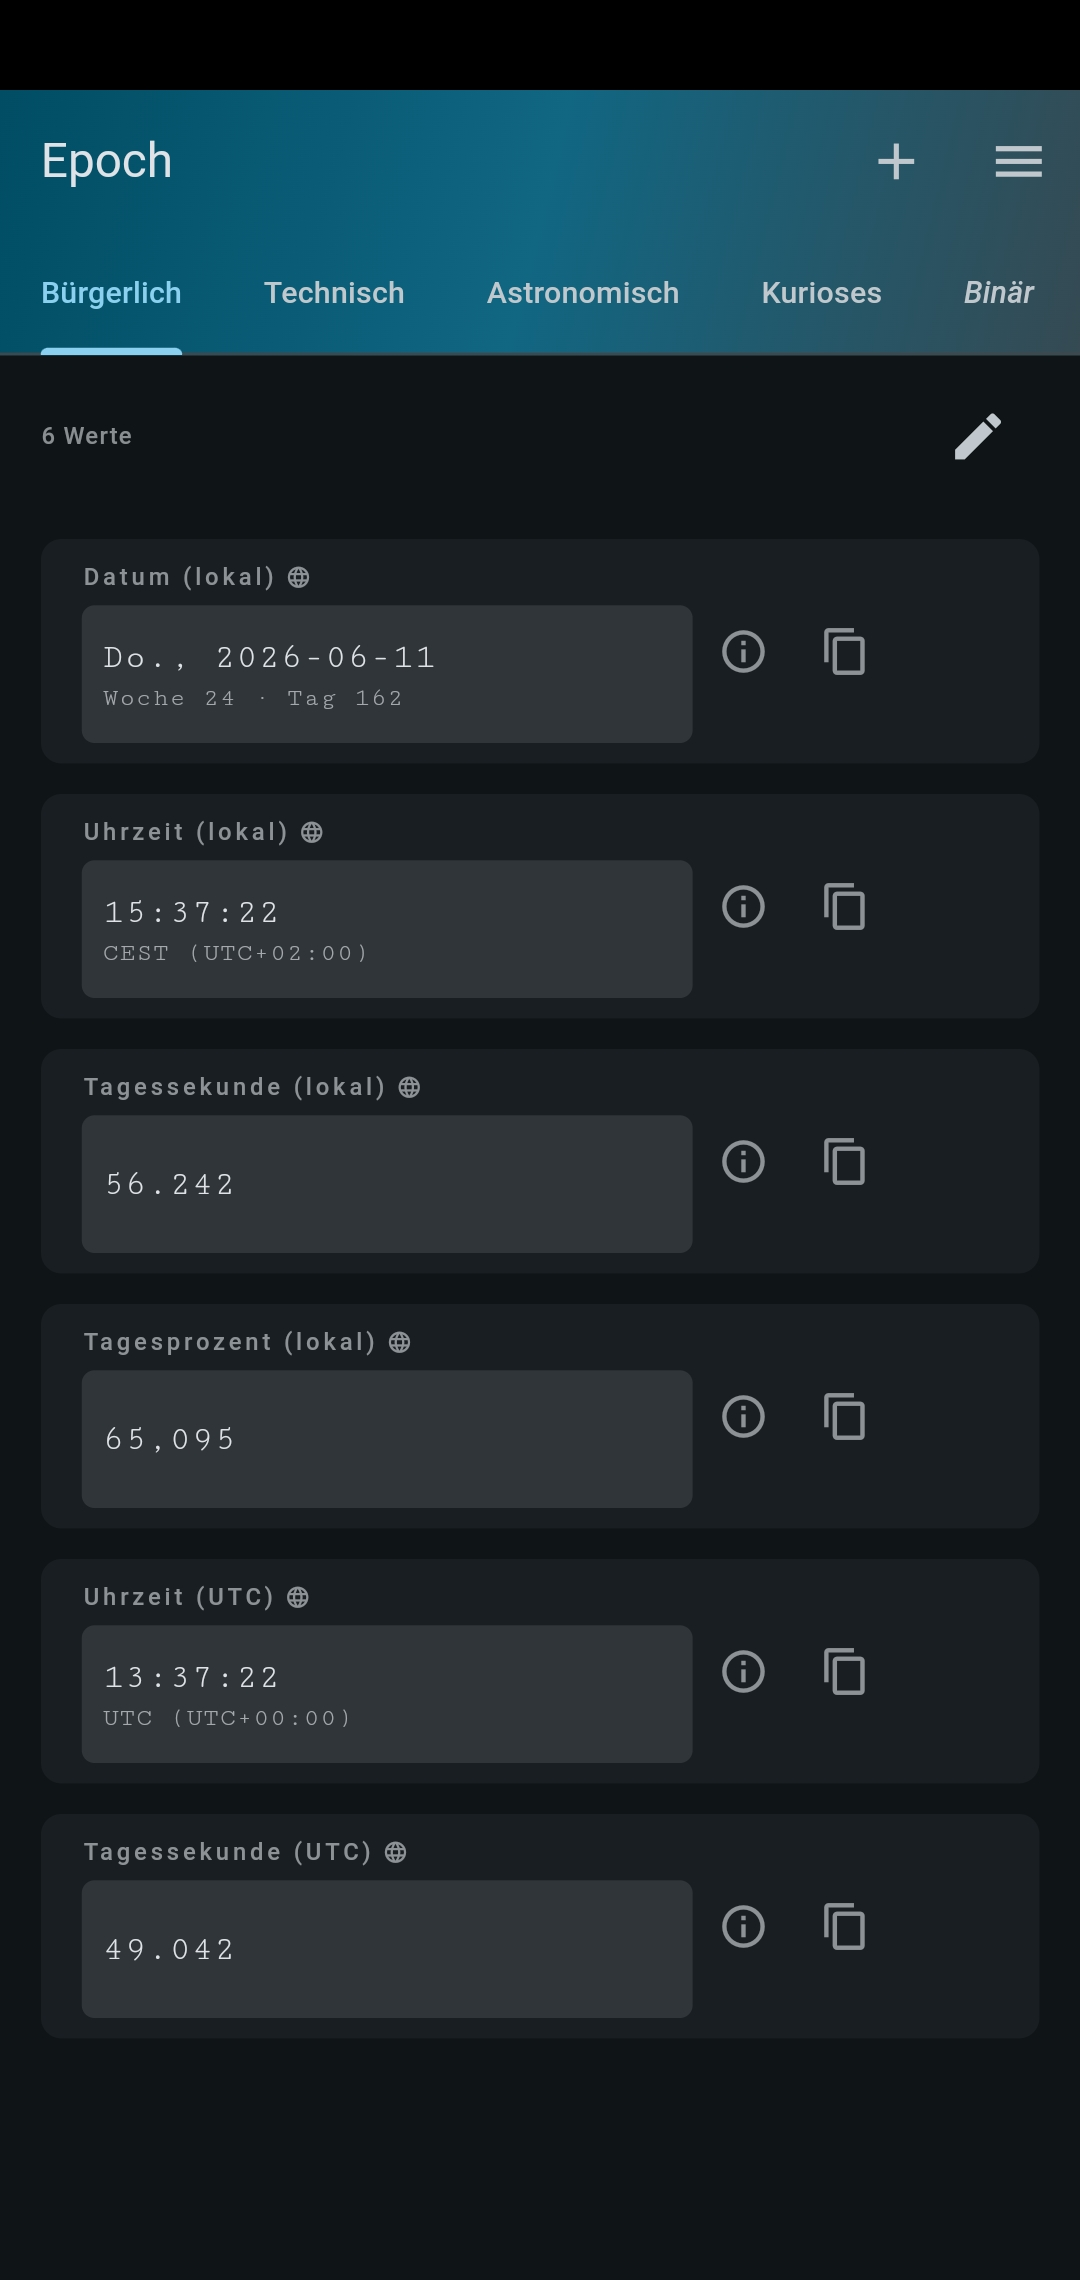
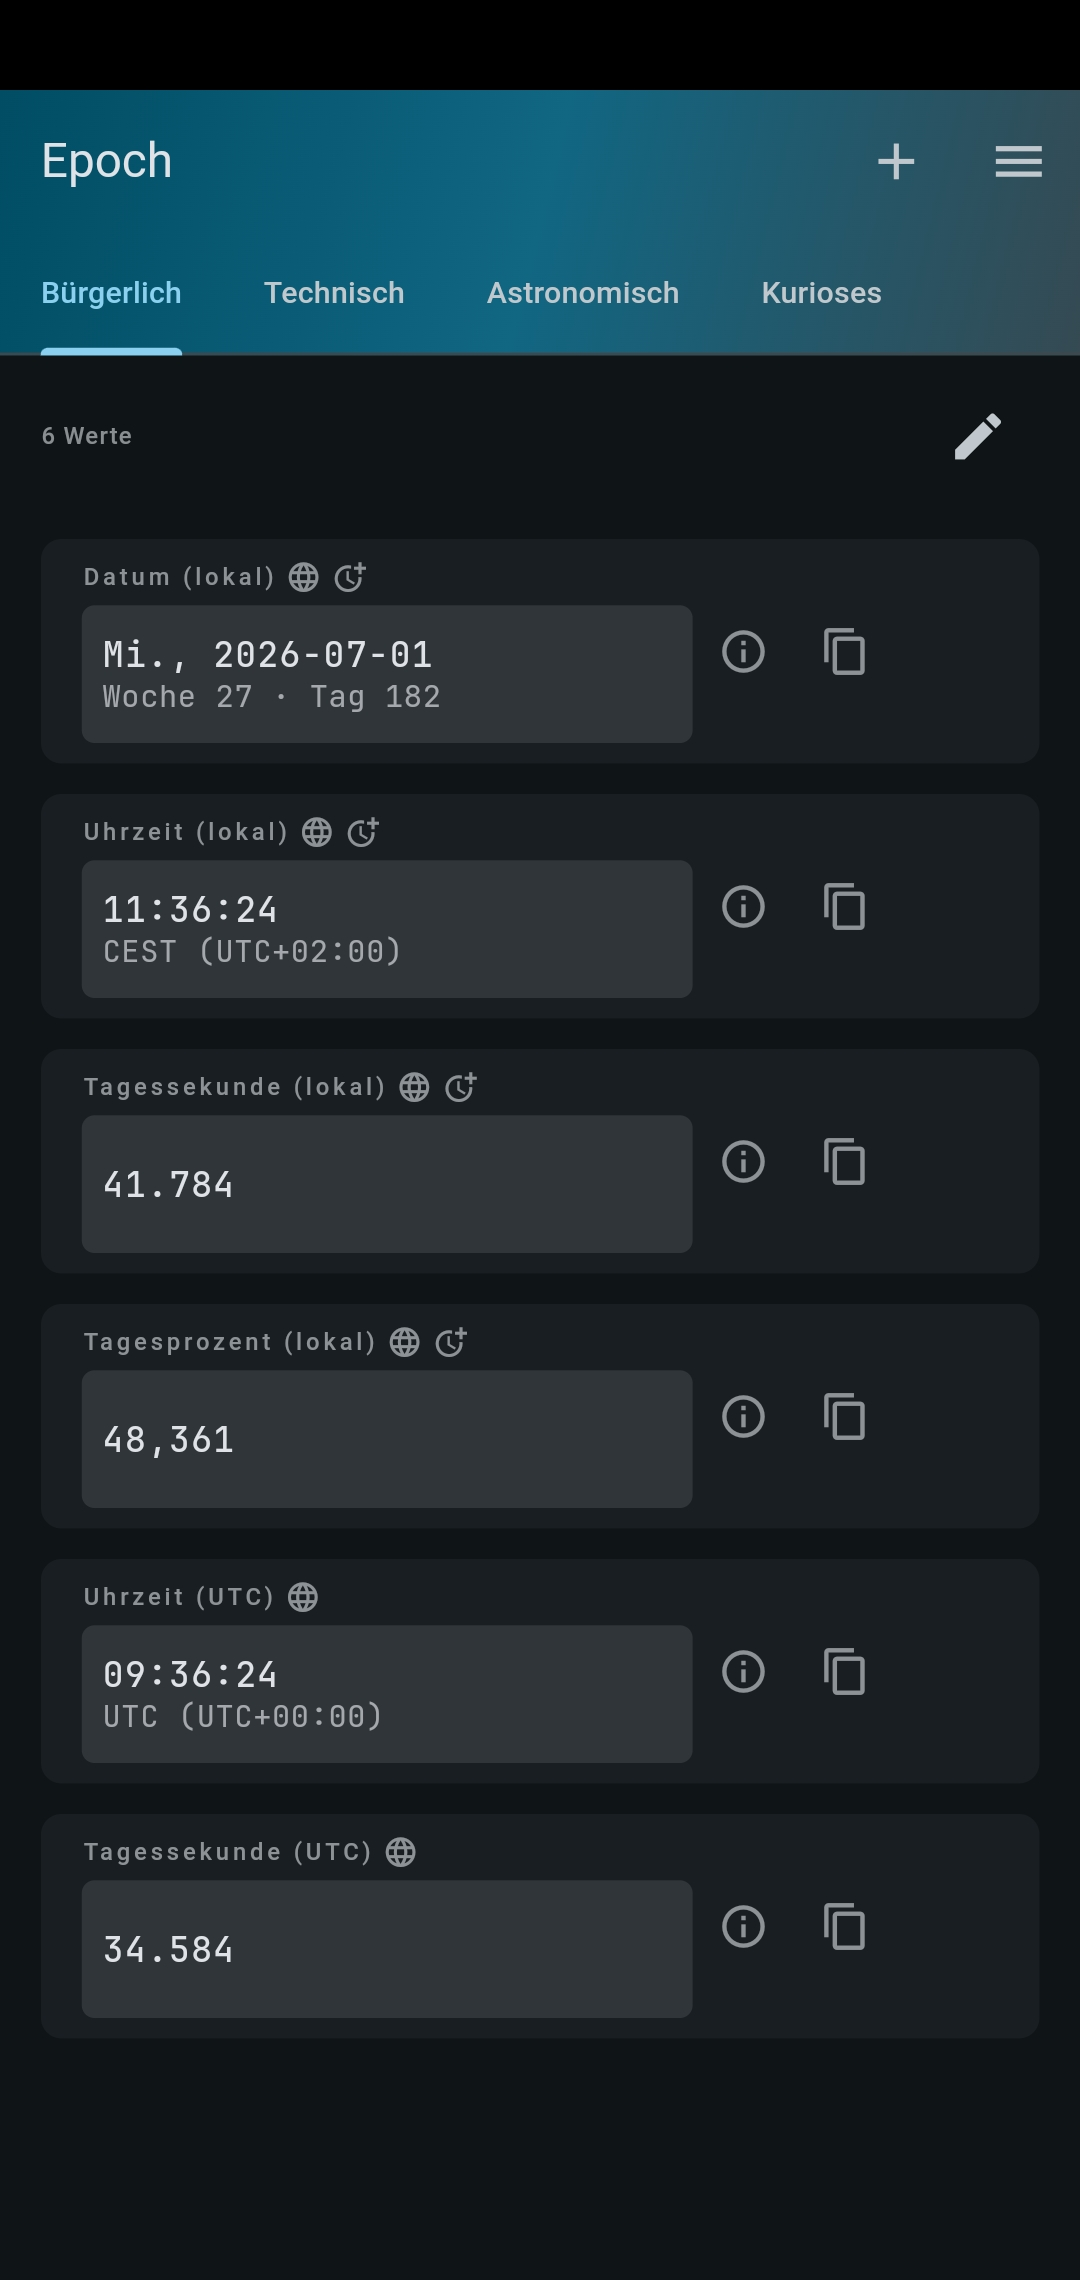
Release 1.2.0

diff --git a/README.md b/README.md
@@ -33,6 +33,7 @@ also happen to spell out **E**legant **p**resentation **o**f
 - Fully customizable tabs (*Watchlist*) — any values from any category, in any order, plus custom tab labels
 - Civil tab configurable with any timezone worldwide
 - Flexible timezone search (city, country, timezone name or abbreviation, UTC offset)
+- Optionally force standard or summer time for zoned time values all year round
 - Drag-and-drop reordering, swipe to remove
 - Custom labels for individual values
 - Custom section headers and dividers
@@ -45,6 +46,7 @@ also happen to spell out **E**legant **p**resentation **o**f
 - 12 / 24-hour format toggle
 - Thousands separator toggle
 - Expanded date toggle
+- Export, import, and reset all preferences (cross-platform, with automatic backup on reset)
 - Available in English and German
 - Android widgets coming soon
 - Not yet: conversions between time systems
@@ -52,7 +54,8 @@ also happen to spell out **E**legant **p**resentation **o**f
 ### Privacy & permissions
 - **No ads. No notifications. No tracking. No analytics. No network requests.**
 - All settings stored locally on your device
-- No permissions required
+- No permissions required -- for LMST, you can specify longitude manually,
+  or temporarily grant ACCESS_COARSE_LOCATION permission (one-time setup step)
 
 
 ## What makes Epoch different?
@@ -68,17 +71,33 @@ It is built for people who are curious about how time actually works.
 Android screenshots are in `fastlane/metadata/android/{en-US,de-DE}`.
 
 <details>
-<summary>Click to expand</summary>
+<summary>Click to expand (English)</summary>
 
 <p>
   <img src="https://raw.githubusercontent.com/RealNoitasinagro/epoch/main/fastlane/metadata/android/en-US/images/phoneScreenshots/1.png" width="200" alt="en 1">
   <img src="https://raw.githubusercontent.com/RealNoitasinagro/epoch/main/fastlane/metadata/android/en-US/images/phoneScreenshots/2.png" width="200" alt="en 2">
   <img src="https://raw.githubusercontent.com/RealNoitasinagro/epoch/main/fastlane/metadata/android/en-US/images/phoneScreenshots/3.png" width="200" alt="en 3">
 </p>
-
 <p>
   <img src="https://raw.githubusercontent.com/RealNoitasinagro/epoch/main/fastlane/metadata/android/en-US/images/phoneScreenshots/4.png" width="200" alt="en 4">
   <img src="https://raw.githubusercontent.com/RealNoitasinagro/epoch/main/fastlane/metadata/android/en-US/images/phoneScreenshots/5.png" width="200" alt="en 5">
+  <img src="https://raw.githubusercontent.com/RealNoitasinagro/epoch/main/fastlane/metadata/android/en-US/images/phoneScreenshots/6.png" width="200" alt="en 6">
+</p>
+
+</details>
+
+<details>
+<summary>Click to expand (German)</summary>
+
+<p>
+  <img src="https://raw.githubusercontent.com/RealNoitasinagro/epoch/main/fastlane/metadata/android/de-DE/images/phoneScreenshots/1.png" width="200" alt="en 1">
+  <img src="https://raw.githubusercontent.com/RealNoitasinagro/epoch/main/fastlane/metadata/android/de-DE/images/phoneScreenshots/2.png" width="200" alt="en 2">
+  <img src="https://raw.githubusercontent.com/RealNoitasinagro/epoch/main/fastlane/metadata/android/de-DE/images/phoneScreenshots/3.png" width="200" alt="en 3">
+</p>
+<p>
+  <img src="https://raw.githubusercontent.com/RealNoitasinagro/epoch/main/fastlane/metadata/android/de-DE/images/phoneScreenshots/4.png" width="200" alt="en 4">
+  <img src="https://raw.githubusercontent.com/RealNoitasinagro/epoch/main/fastlane/metadata/android/de-DE/images/phoneScreenshots/5.png" width="200" alt="en 5">
+  <img src="https://raw.githubusercontent.com/RealNoitasinagro/epoch/main/fastlane/metadata/android/de-DE/images/phoneScreenshots/6.png" width="200" alt="en 6">
 </p>
 
 </details>

diff --git a/CHANGELOG.md b/CHANGELOG.md
@@ -2,23 +2,26 @@
 
 ## [Unreleased]
 
+
+---
+
+
+## [1.2.0] - 2026-07-01
+
 ### Added
-- options to force standard or summer time for zoned time values all the year round
-- automatic longitude detection introduced in 1.1.0 is back (now without geolocator)
-- custom section headers and dividers
-- visual markers for summer time is active/inactive and always-on/always-off summer time
-- tooltips for all visual markers
-- export/import/reset all settings and preferences (useful to play with different configs)
+- options to force standard or summer time for zoned time values all year round
+- multiple display mode variants of the same timezone on one tab (e.g. Berlin auto + Berlin always-standard)
+- visual indicators for summer time/DST status (active/inactive) and pinned display mode 
+- automatic longitude detection for LMST (restored without Google Play Services dependency)
+- custom section headers and dividers on configurable tabs
+- export, import, and reset all preferences (cross-platform, with automatic backup on reset)
 
 ### Changed
-- replaced font for better readability of time values
-- time value selection shows graphical value types in italics
+- better legibility of time values: font replaced with JetBrains Mono, subtitle text size increased  
+- graphical value types shown in italics in the value type picker
 
 ### Fixed
 - missing timezones UTC-12, UTC+8:45, UTC+12:45, UTC+13:45, UTC+14
-
-
----
 
 
 ## [1.1.1] - 2026-06-11
